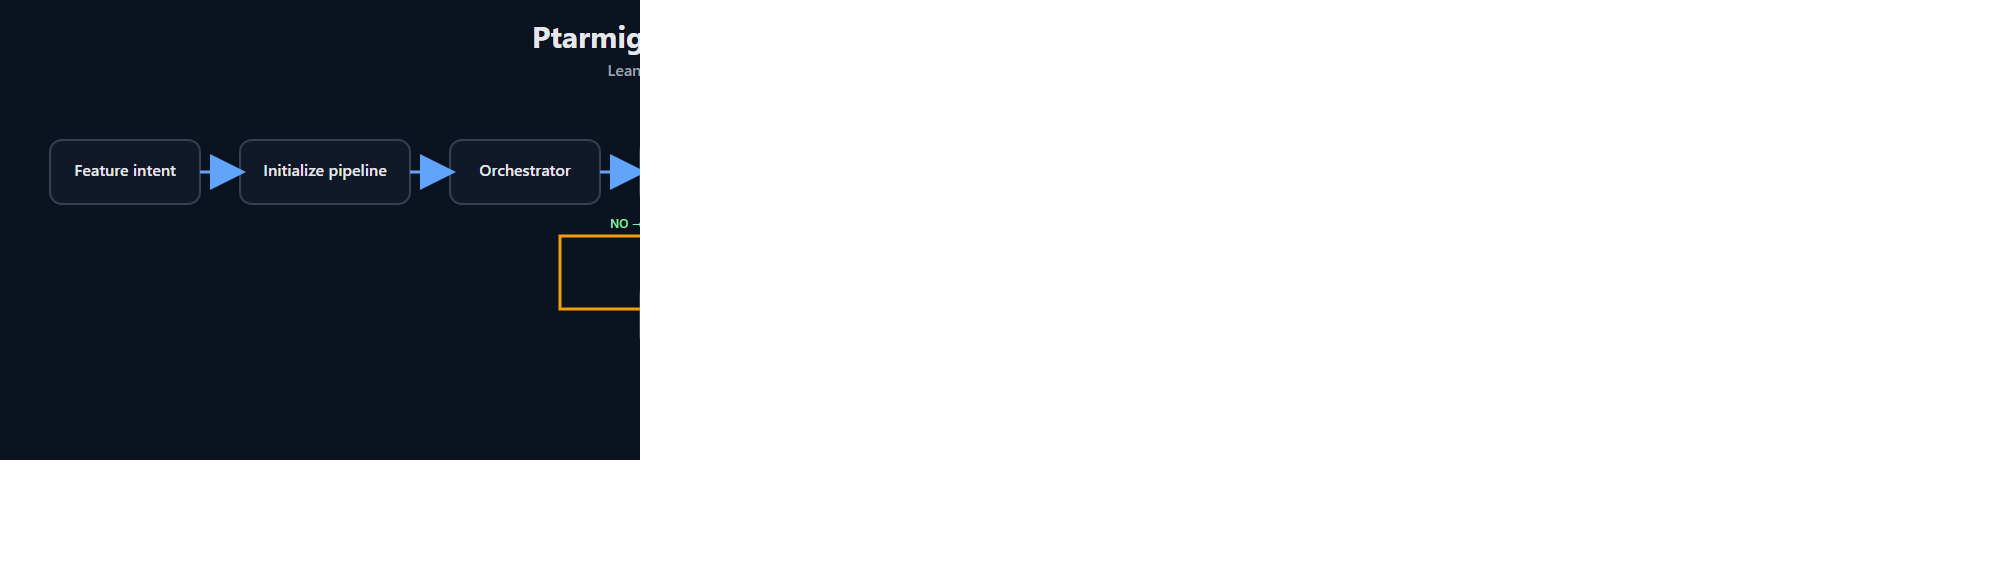
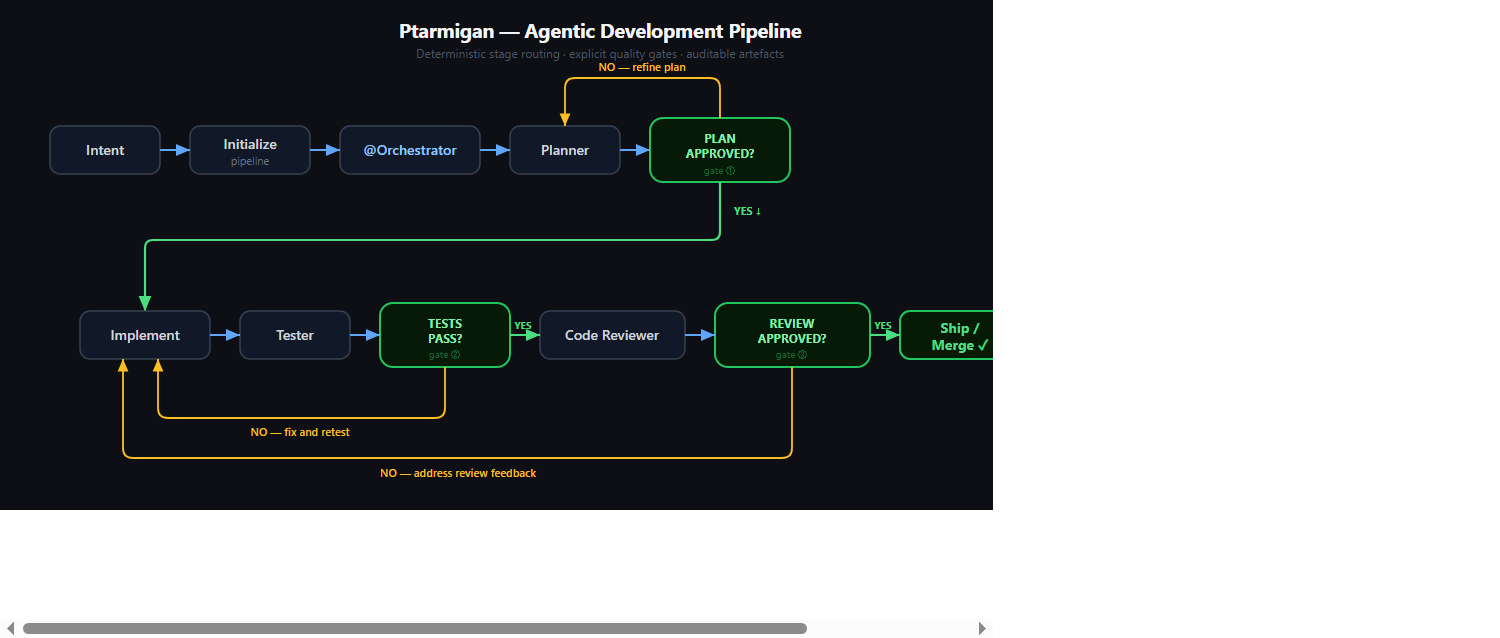
feat: sync ptarmigan pool from agent-sandbox - 2026-05-05

diff --git a/CHANGELOG.md b/CHANGELOG.md
@@ -4,6 +4,18 @@ All notable changes to the **ptarmigan** VS Code extension are documented here.
 
 ---
 
+## [0.1.5] — 2026-05-05
+
+### Bug fixes
+
+- Fixed broken README images on Marketplace: replaced relative `./assets/` paths with absolute `https://raw.githubusercontent.com/saajunaid/ptarmigan/main/assets/` URLs.
+
+### Documentation
+
+- Redesigned pipeline flow diagram (`assets/ptarmigan-agentic-flow.svg` and `.png`) with a clean two-row layout and zero overlapping arrows. NO loops are routed above row 1 and below row 2 at different depths so all three paths are distinct.
+
+---
+
 ## [0.1.4] — 2026-05-05
 
 ### Documentation

diff --git a/README.md b/README.md
@@ -42,7 +42,7 @@ It keeps the pipeline deterministic and production-disciplined while trimming th
 
 ## Agentic development flow (recommended)
 
-![Ptarmigan agentic development flow](./assets/ptarmigan-agentic-flow.png)
+![Ptarmigan agentic development flow](https://raw.githubusercontent.com/saajunaid/ptarmigan/main/assets/ptarmigan-agentic-flow.png)
 
 ### Mode behavior
 
